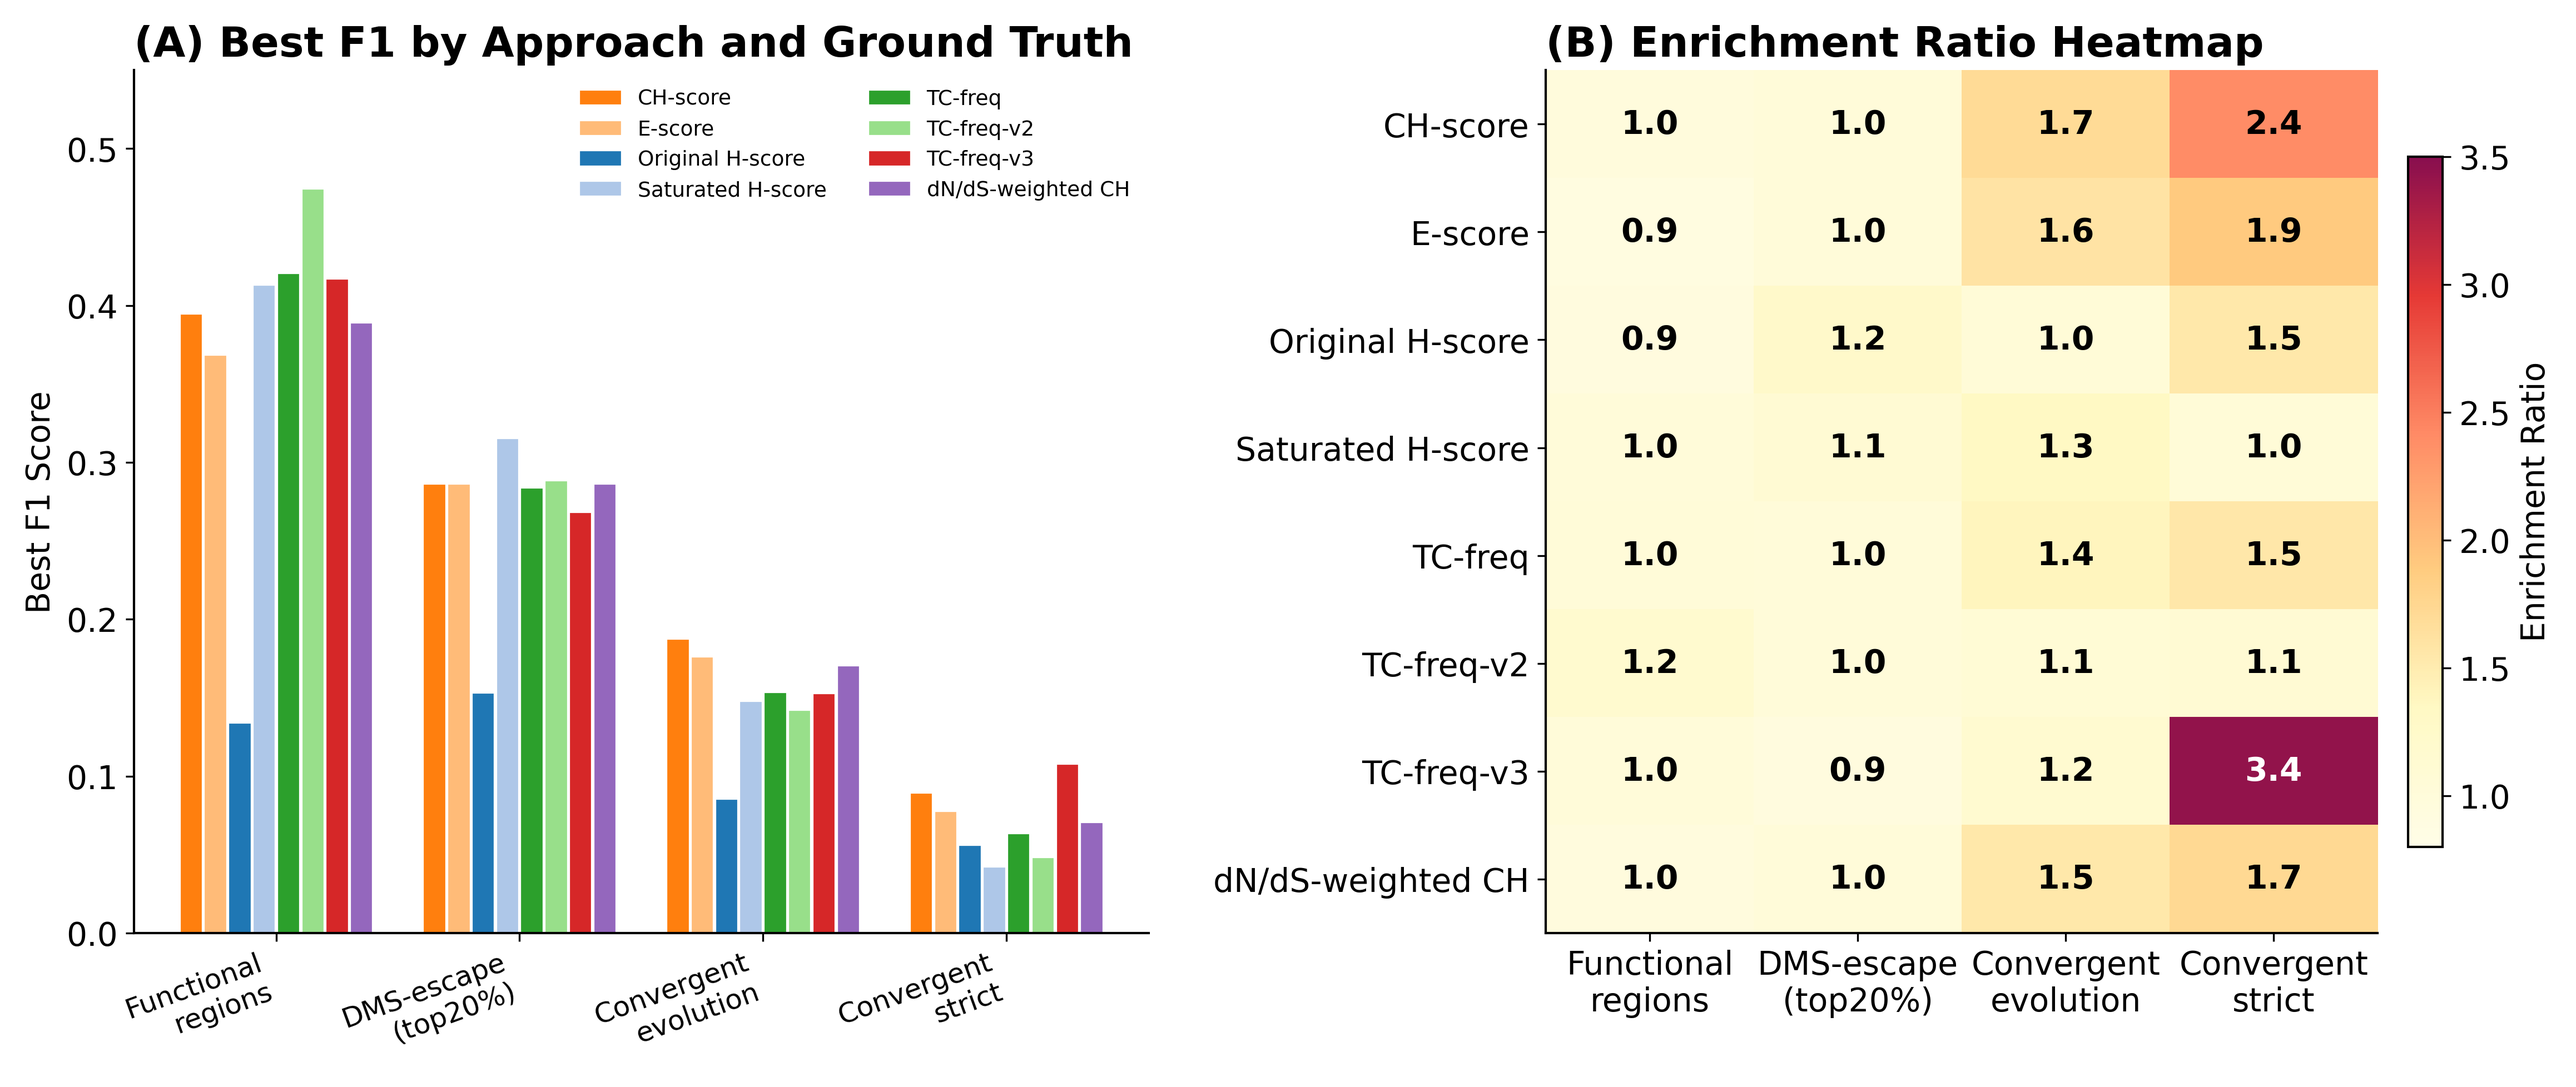
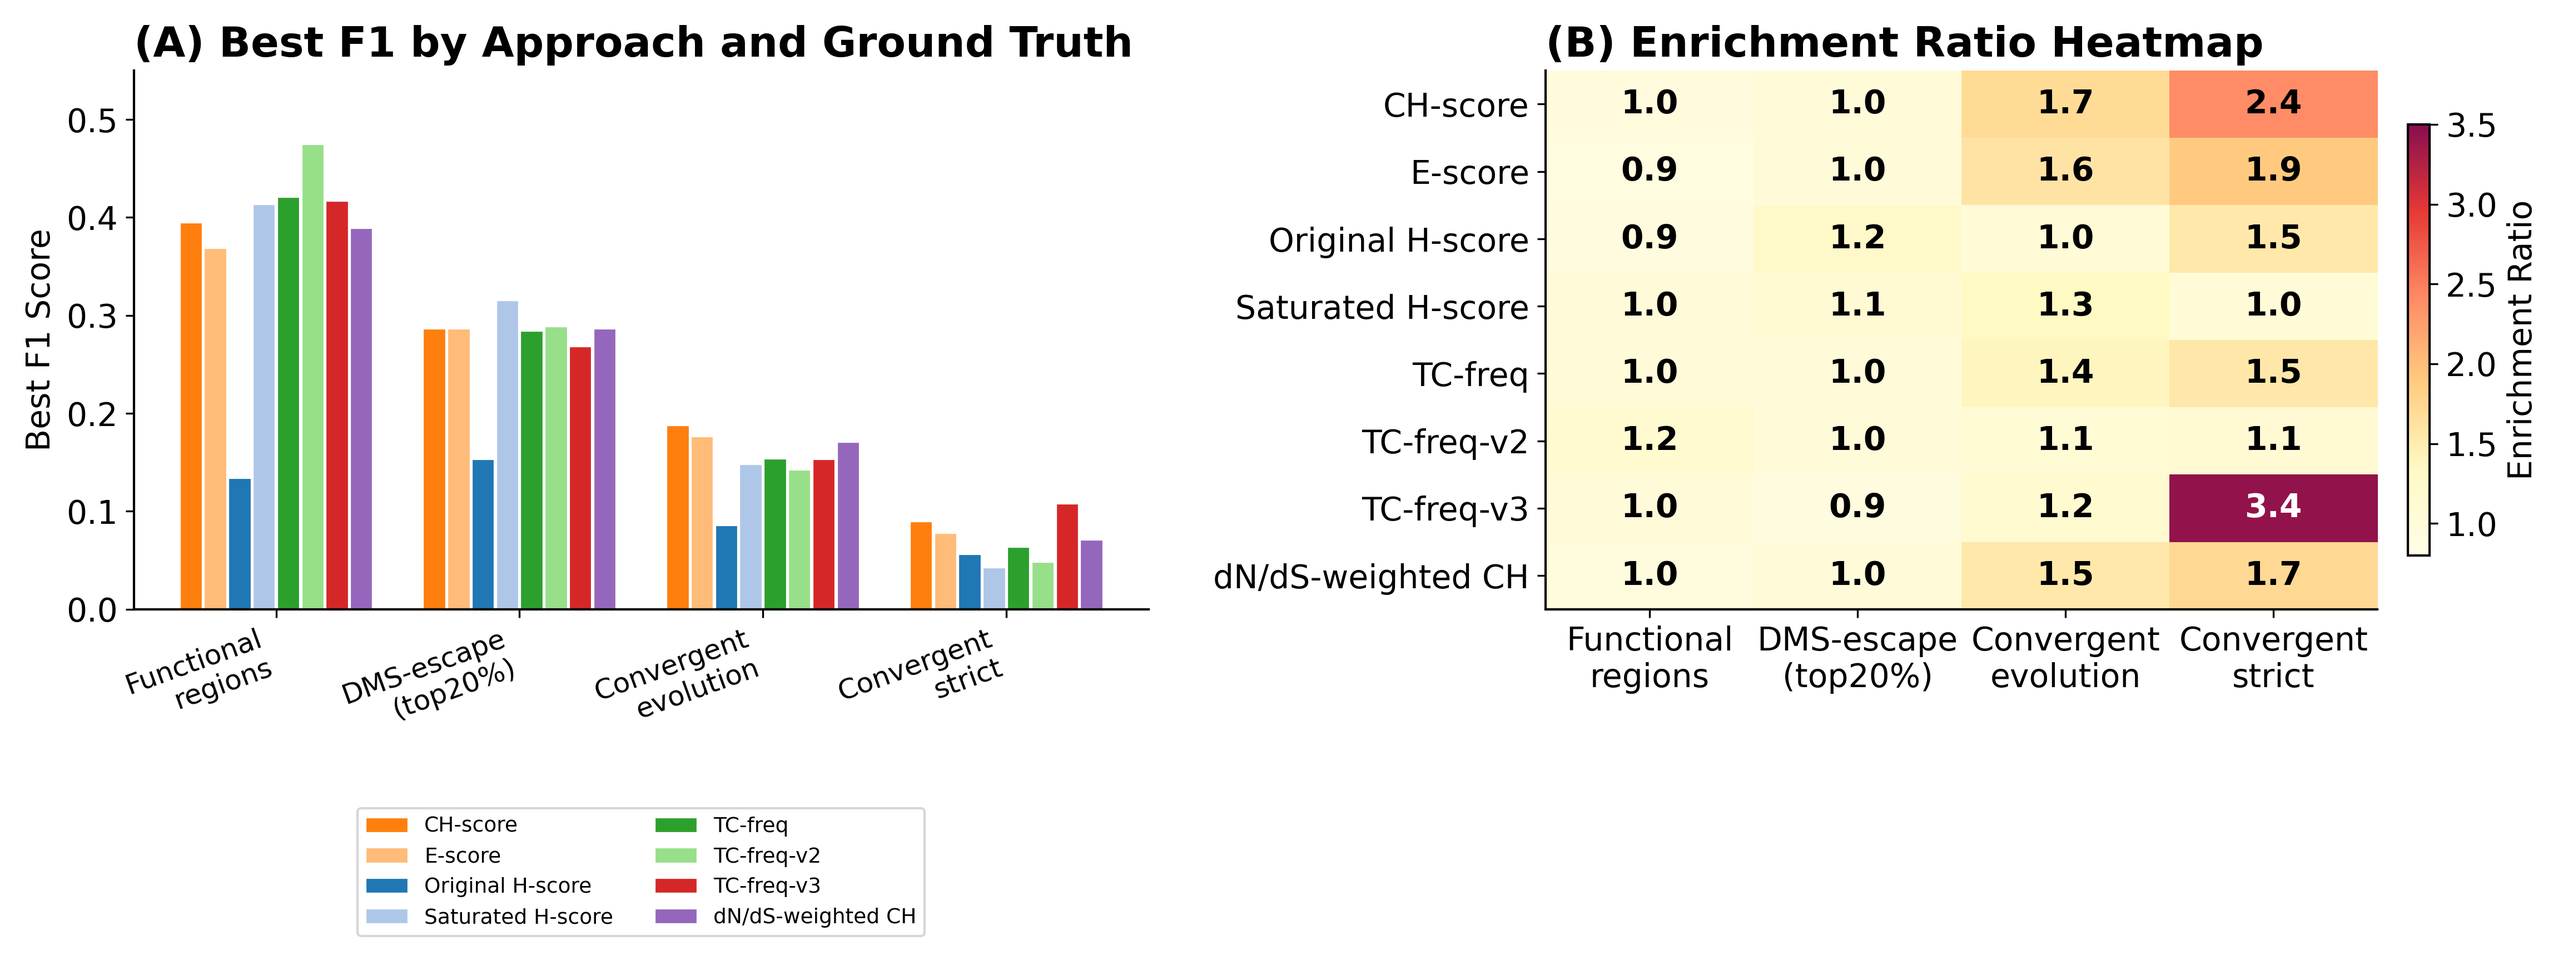
fix: all legends moved OUTSIDE plot area, unicode fix, 3321 formula
- ALL figure legends: bbox_to_anchor below plot area (no graph overlap)
- Panel A random baseline label: annotate outside right margin
- Fixed unicode 10⁻³/10⁻⁴ → "약 1/1,000" / "약 1/10,000"
- "9×41=369, 총 3,321" → "9 공식 x 41 알고리즘 x 9 바이러스 = 3,321"
- All 6 split figures + guide_figures + PDF regenerated

diff --git a/scripts/regenerate_dissertation_figures.py b/scripts/regenerate_dissertation_figures.py
@@ -80,14 +80,18 @@ def figure_4_1():
     ax_a.set_xticklabels([short_labels.get(m, m) for m in methods],
                          fontsize=9, rotation=60, ha='right')
     ax_a.set_ylabel('Score', fontsize=14)
-    ax_a.set_ylim(0, 1.25)
+    ax_a.set_ylim(0, 1.05)
+    # Legend OUTSIDE plot area (below x-axis)
     ax_a.legend(fontsize=10, frameon=True, fancybox=True,
-                bbox_to_anchor=(0.5, 1.12), loc='upper center', ncol=3)
+                bbox_to_anchor=(0.5, -0.35), loc='upper center', ncol=3)
     ax_a.set_title('(A) Performance (top-10% threshold)', fontsize=PANEL_LABEL_SIZE,
-                   fontweight='bold', loc='left', pad=20)
+                   fontweight='bold', loc='left')
+    # Random baseline: line inside, label OUTSIDE (right margin)
     ax_a.axhline(y=0.125, color='gray', linestyle='--', linewidth=0.8, alpha=0.6)
-    ax_a.text(len(methods)-0.5, 0.135, 'random baseline', fontsize=12,
-              color='gray', ha='right')
+    ax_a.annotate('random\nbaseline', xy=(1.02, 0.125),
+                  xycoords=('axes fraction', 'data'),
+                  fontsize=9, color='gray', va='center', ha='left',
+                  annotation_clip=False)
 
     # Panel B: Best F1 at optimal threshold (horizontal bars)
     ax_b = axes_top[1]
@@ -138,8 +142,9 @@ def figure_4_1():
 
     ax_c.set_xlabel('CH-score', fontsize=14)
     ax_c.set_ylabel('Density', fontsize=14)
+    # Legend OUTSIDE plot area (below x-axis)
     ax_c.legend(fontsize=10, frameon=True, fancybox=True,
-                bbox_to_anchor=(0.98, 0.98), loc='upper right')
+                bbox_to_anchor=(0.5, -0.25), loc='upper center', ncol=1)
     ax_c.set_title('(C) CH-score: Functional vs Non-functional',
                    fontsize=PANEL_LABEL_SIZE, fontweight='bold', loc='left')
 
@@ -177,8 +182,8 @@ def figure_4_1():
     ax_d.axvspan(319, 541, alpha=0.1, color='pink', label='RBD')
     ax_d.set_xlabel('Spike Position (AA)', fontsize=14)
     ax_d.set_ylabel('Normalized Score', fontsize=14)
-    ax_d.legend(fontsize=10, frameon=False, loc='upper right', ncol=2,
-                bbox_to_anchor=(1.0, 1.0))
+    ax_d.legend(fontsize=9, frameon=True, fancybox=True,
+                bbox_to_anchor=(0.5, -0.25), loc='upper center', ncol=2)
     ax_d.set_title('(D) Scores Along Spike Protein', fontsize=PANEL_LABEL_SIZE,
                    fontweight='bold', loc='left')
     ax_d.set_xlim(0, 1280)
@@ -203,7 +208,8 @@ def figure_4_1():
 
     ax_e.set_xlabel('H-score', fontsize=14)
     ax_e.set_ylabel('Density', fontsize=14)
-    ax_e.legend(fontsize=14, frameon=False, loc='upper left')
+    ax_e.legend(fontsize=10, frameon=True, fancybox=True,
+                bbox_to_anchor=(0.5, -0.25), loc='upper center', ncol=2)
     ax_e.set_title('(E) H-score Saturation Problem', fontsize=PANEL_LABEL_SIZE,
                    fontweight='bold', loc='left')
 
@@ -286,8 +292,8 @@ def figure_4_2():
     ax_a.set_xticks(x)
     ax_a.set_xticklabels(gt_short, fontsize=12, rotation=20, ha='right')
     ax_a.set_ylabel('Best F1 Score', fontsize=14)
-    ax_a.legend(fontsize=9, frameon=False, loc='upper right', ncol=2,
-                bbox_to_anchor=(1.0, 1.0))
+    ax_a.legend(fontsize=9, frameon=True, fancybox=True,
+                bbox_to_anchor=(0.5, -0.35), loc='upper center', ncol=2)
     ax_a.set_title('(A) Best F1 by Approach and Ground Truth',
                    fontsize=PANEL_LABEL_SIZE, fontweight='bold', loc='left')
     ax_a.set_ylim(0, 0.55)
@@ -463,7 +469,8 @@ def figure_4_3():
     ax_a.set_xticklabels([approach_short.get(a, a) for a in approaches],
                          fontsize=11, rotation=45, ha='right')
     ax_a.set_ylabel('F1 Score', fontsize=14)
-    ax_a.legend(fontsize=12, frameon=False, loc='upper right')
+    ax_a.legend(fontsize=10, frameon=True, fancybox=True,
+                bbox_to_anchor=(0.5, -0.35), loc='upper center', ncol=2)
     ax_a.set_title('(A) F1: DMS vs Functional-Region Ground Truth (top-10%)',
                    fontsize=PANEL_LABEL_SIZE, fontweight='bold', loc='left')
 
@@ -490,7 +497,8 @@ def figure_4_3():
     ax_b.set_xticklabels([approach_short.get(a, a) for a in approaches],
                          fontsize=11, rotation=45, ha='right')
     ax_b.set_ylabel("Cohen's d", fontsize=14)
-    ax_b.legend(fontsize=12, frameon=False, loc='upper right')
+    ax_b.legend(fontsize=10, frameon=True, fancybox=True,
+                bbox_to_anchor=(0.5, -0.35), loc='upper center', ncol=3)
     ax_b.set_title("(B) Cohen's d: Score Separation by Ground Truth",
                    fontsize=PANEL_LABEL_SIZE, fontweight='bold', loc='left')
     ax_b.axhline(y=0, color='gray', linewidth=0.8, linestyle='-')
@@ -522,7 +530,8 @@ def figure_4_3():
 
     ax_c.set_xlabel('Approach Score', fontsize=14)
     ax_c.set_ylabel('DMS Impact (Fitness)', fontsize=14)
-    ax_c.legend(fontsize=11, frameon=False, loc='lower left',
+    ax_c.legend(fontsize=10, frameon=True, fancybox=True,
+                bbox_to_anchor=(0.5, -0.35), loc='upper center', ncol=2,
                 markerscale=2.5)
     ax_c.set_title('(C) Score vs DMS Functional Importance',
                    fontsize=PANEL_LABEL_SIZE, fontweight='bold', loc='left')
@@ -562,7 +571,8 @@ def figure_4_3():
 
     ax_d.set_xlabel('Recall', fontsize=14)
     ax_d.set_ylabel('Precision', fontsize=14)
-    ax_d.legend(fontsize=11, frameon=False, loc='upper right')
+    ax_d.legend(fontsize=10, frameon=True, fancybox=True,
+                bbox_to_anchor=(0.5, -0.25), loc='upper center', ncol=3)
     ax_d.set_title('(D) Precision-Recall: DMS-escape (top20%)',
                    fontsize=PANEL_LABEL_SIZE, fontweight='bold', loc='left')
     ax_d.set_xlim(0, 1.05)

diff --git a/paper/dissertation/dissertation_easy_guide.md b/paper/dissertation/dissertation_easy_guide.md
@@ -122,9 +122,9 @@ hotspot-score = (recall + precision + stability) / 3
 - **위장관**: Norovirus (VP1, 540 AA)
 - **절지동물 매개**: Dengue (E 단백질, 495 AA)
 
-이 9종은 변이 속도(HIV-1의 ~10⁻³ ~ SARS-CoV-2의 ~10⁻⁴ 치환/위치/년), 단백질 길이(340~1,330 AA), 진화 패턴(H3N2의 지속적 항원 변이 vs Norovirus의 간헐적 epoch 변이)이 모두 달라, 단일 바이러스에 치우치지 않는 평가를 보장한다.
+이 9종은 변이 속도(HIV-1의 약 1/1,000 ~ SARS-CoV-2의 약 1/10,000 치환/위치/년), 단백질 길이(340~1,330 AA), 진화 패턴(H3N2의 지속적 항원 변이 vs Norovirus의 간헐적 epoch 변이)이 모두 달라, 단일 바이러스에 치우치지 않는 평가를 보장한다.
 
-각 바이러스에 대해 9가지 점수화 공식 × 41가지 탐지 알고리즘 = **369가지 조합**, 총 **3,321회** 평가.
+각 바이러스에 대해 **9가지 점수화 공식 x 41가지 탐지 알고리즘 x 9개 바이러스 = 3,321회** 평가를 수행했다.
 
 ---
 
